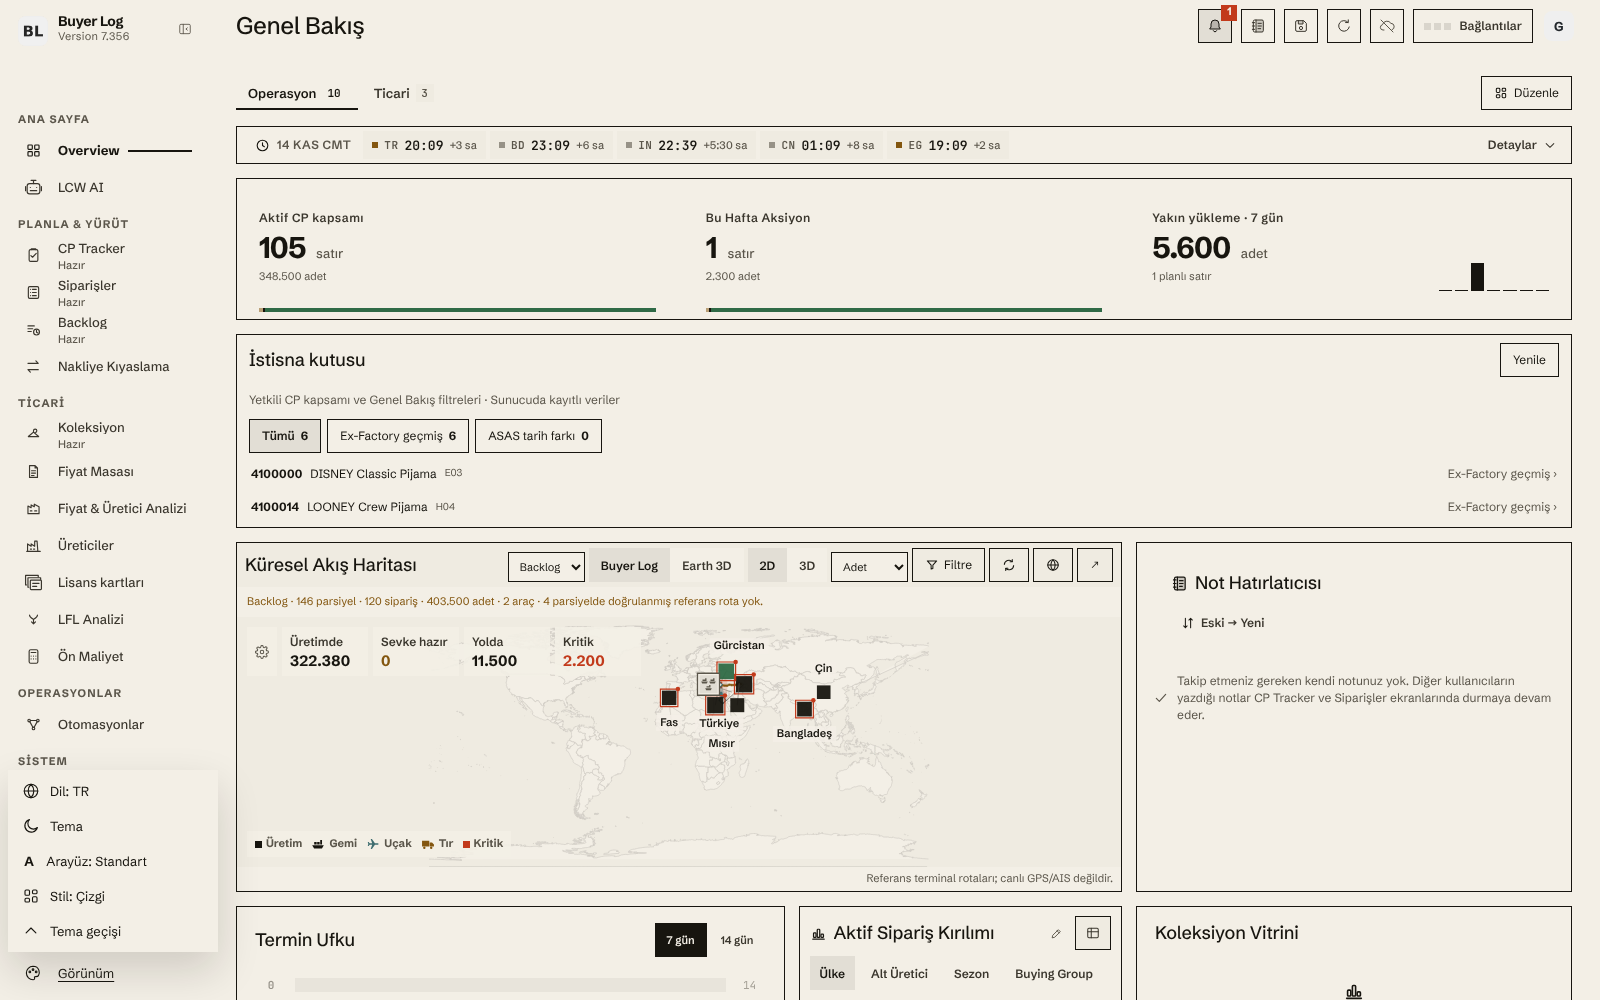
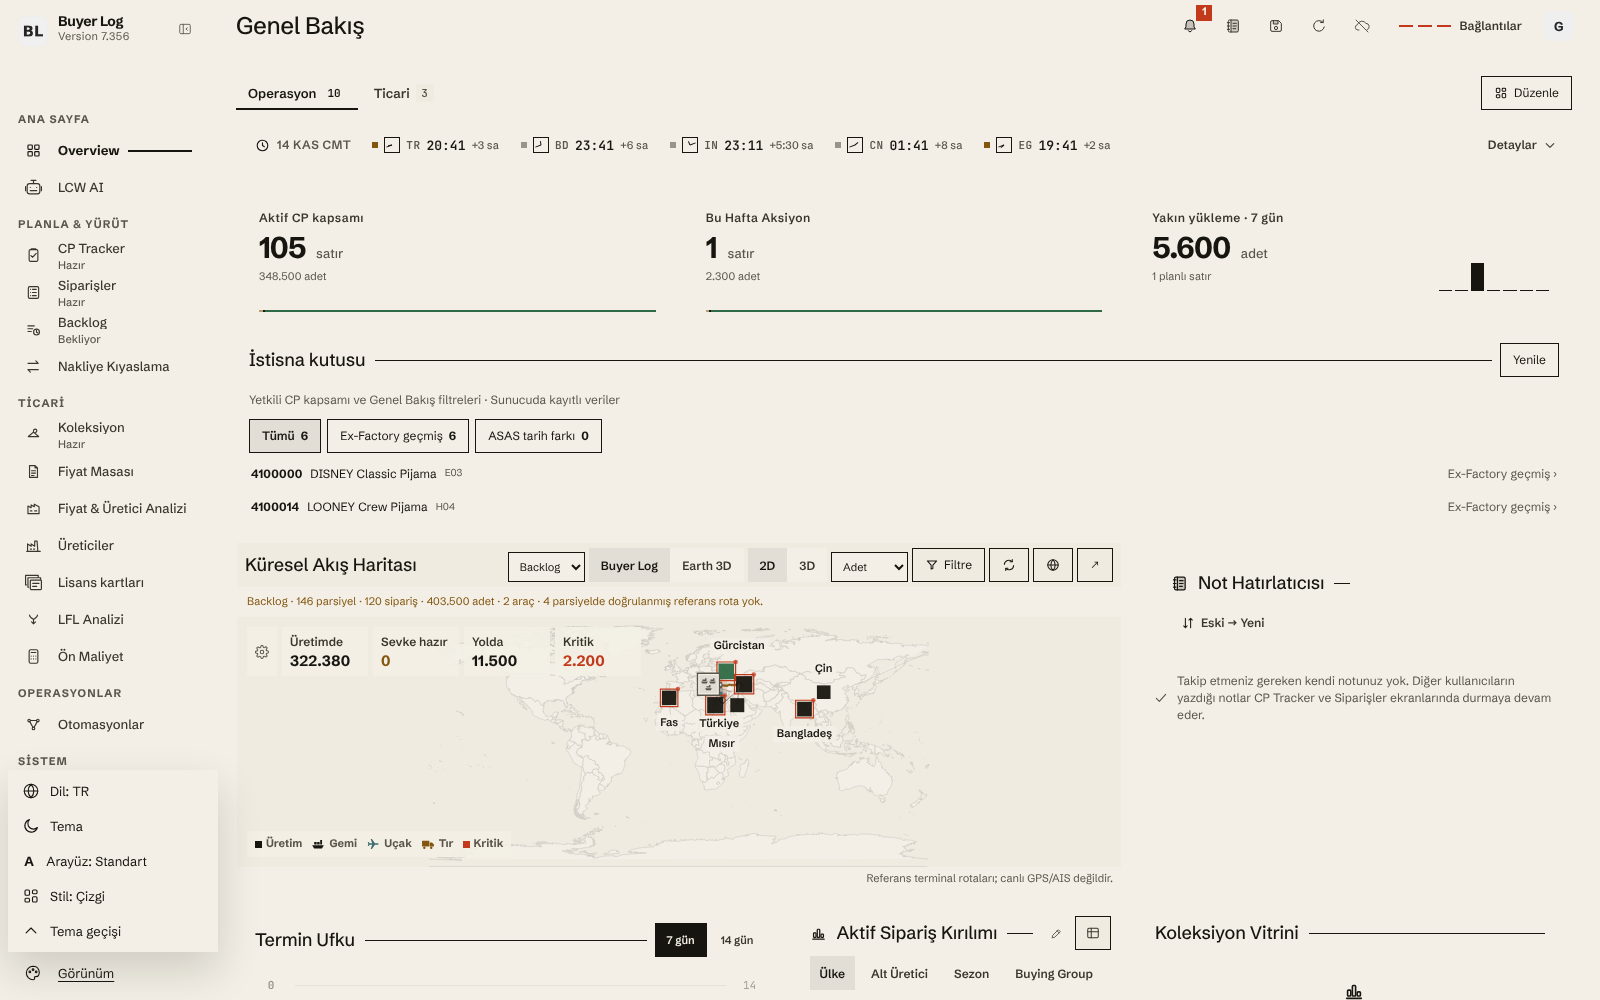
docs+notes: Çizgi stili yüzey kuralları, Rapor görünümü; menü sırası sözleşmesi
- Rapor görünümü düğmesi görünüm seçicisinin sonuna taşındı (Alanlar düğmesinin
  Tümü'nün hemen sağında olma sözleşmesi korunur).
- DESIGN_SYSTEM.md §2.1 yüzey/işaret/kabuk kuralları ve bilinçli dışarıda bırakılanlar,
  §2.2 Rapor görünümü.
- Sürüm notu: Çizgi kaydı genişletildi, Rapor görünümü kaydı ve gerçek uygulama
  ekran görüntüleri eklendi.

Claude-Session: https://claude.ai/code/session_01HKcjmjhkcMf7pfaP84BfYF

diff --git a/resources/app/public/index.html b/resources/app/public/index.html
@@ -937,9 +937,9 @@
                 <button type="button" class="tableViewPreset" data-table-view-preset="focus" data-table-key="cp" aria-pressed="false"><span data-i18n-tr="Odak" data-i18n-en="Focus">Odak</span></button>
             <button type="button" class="tableViewPreset" data-table-view-preset="extended" data-table-key="cp" aria-pressed="false"><span data-i18n-tr="Genişletilmiş" data-i18n-en="Extended">Genişletilmiş</span></button>
             <button type="button" class="tableViewPreset" data-table-view-preset="all" data-table-key="cp" aria-pressed="false"><span data-i18n-tr="Tümü" data-i18n-en="All">Tümü</span></button>
-            <button type="button" class="tableViewPreset tableReportViewBtn" data-table-report="cp" aria-haspopup="dialog" title="Görünen kayıtları rapor düzeninde aç: alanlar rol gruplarında, iki satırlı hücrelerde" data-i18n-title-tr="Görünen kayıtları rapor düzeninde aç: alanlar rol gruplarında, iki satırlı hücrelerde" data-i18n-title-en="Open the visible records in report layout: fields grouped by role in two-line cells"><svg class="ic" aria-hidden="true"><use href="#i-table"/></svg><span data-i18n-tr="Rapor görünümü" data-i18n-en="Report view">Rapor görünümü</span></button>
             <button type="button" class="tableViewPreset tableFieldsBtn" data-table-fields="cp" aria-haspopup="dialog" aria-expanded="false" title="Ana başlıkları aç / kapat (görünüm ayarını değiştirmez)" data-i18n-title-tr="Ana başlıkları aç / kapat (görünüm ayarını değiştirmez)" data-i18n-title-en="Show / hide column headings (does not change the view preset)"><svg class="ic" aria-hidden="true"><use href="#i-table"/></svg><span data-i18n-tr="Alanlar" data-i18n-en="Fields">Alanlar</span><span class="tableFieldsBadge" hidden></span></button>
             <button type="button" class="tableViewPreset tablePartialViewToggle" data-partial-view-toggle="cp" aria-pressed="false" title="Status etiketlerini ayrı satırlarda göster" data-i18n-title-tr="Status etiketlerini ayrı satırlarda göster" data-i18n-title-en="Show each status label on a separate row"><svg class="ic" aria-hidden="true"><use href="#i-table"/></svg><span data-i18n-tr="Kısmi Görünüm" data-i18n-en="Partial View">Kısmi Görünüm</span></button>
+            <button type="button" class="tableViewPreset tableReportViewBtn" data-table-report="cp" aria-haspopup="dialog" title="Görünen kayıtları rapor düzeninde aç: alanlar rol gruplarında, iki satırlı hücrelerde" data-i18n-title-tr="Görünen kayıtları rapor düzeninde aç: alanlar rol gruplarında, iki satırlı hücrelerde" data-i18n-title-en="Open the visible records in report layout: fields grouped by role in two-line cells"><svg class="ic" aria-hidden="true"><use href="#i-table"/></svg><span data-i18n-tr="Rapor görünümü" data-i18n-en="Report view">Rapor görünümü</span></button>
               </div>
             </div>
 
@@ -1027,9 +1027,9 @@
                 <button type="button" class="tableViewPreset" data-table-view-preset="focus" data-table-key="orders" aria-pressed="false"><span data-i18n-tr="Odak" data-i18n-en="Focus">Odak</span></button>
             <button type="button" class="tableViewPreset" data-table-view-preset="extended" data-table-key="orders" aria-pressed="false"><span data-i18n-tr="Genişletilmiş" data-i18n-en="Extended">Genişletilmiş</span></button>
             <button type="button" class="tableViewPreset" data-table-view-preset="all" data-table-key="orders" aria-pressed="false"><span data-i18n-tr="Tümü" data-i18n-en="All">Tümü</span></button>
-            <button type="button" class="tableViewPreset tableReportViewBtn" data-table-report="orders" aria-haspopup="dialog" title="Görünen kayıtları rapor düzeninde aç: alanlar rol gruplarında, iki satırlı hücrelerde" data-i18n-title-tr="Görünen kayıtları rapor düzeninde aç: alanlar rol gruplarında, iki satırlı hücrelerde" data-i18n-title-en="Open the visible records in report layout: fields grouped by role in two-line cells"><svg class="ic" aria-hidden="true"><use href="#i-table"/></svg><span data-i18n-tr="Rapor görünümü" data-i18n-en="Report view">Rapor görünümü</span></button>
             <button type="button" class="tableViewPreset tableFieldsBtn" data-table-fields="orders" aria-haspopup="dialog" aria-expanded="false" title="Ana başlıkları aç / kapat (görünüm ayarını değiştirmez)" data-i18n-title-tr="Ana başlıkları aç / kapat (görünüm ayarını değiştirmez)" data-i18n-title-en="Show / hide column headings (does not change the view preset)"><svg class="ic" aria-hidden="true"><use href="#i-table"/></svg><span data-i18n-tr="Alanlar" data-i18n-en="Fields">Alanlar</span><span class="tableFieldsBadge" hidden></span></button>
             <button type="button" class="tableViewPreset tablePartialViewToggle" data-partial-view-toggle="orders" aria-pressed="false" title="Status etiketlerini ayrı satırlarda göster" data-i18n-title-tr="Status etiketlerini ayrı satırlarda göster" data-i18n-title-en="Show each status label on a separate row"><svg class="ic" aria-hidden="true"><use href="#i-table"/></svg><span data-i18n-tr="Kısmi Görünüm" data-i18n-en="Partial View">Kısmi Görünüm</span></button>
+            <button type="button" class="tableViewPreset tableReportViewBtn" data-table-report="orders" aria-haspopup="dialog" title="Görünen kayıtları rapor düzeninde aç: alanlar rol gruplarında, iki satırlı hücrelerde" data-i18n-title-tr="Görünen kayıtları rapor düzeninde aç: alanlar rol gruplarında, iki satırlı hücrelerde" data-i18n-title-en="Open the visible records in report layout: fields grouped by role in two-line cells"><svg class="ic" aria-hidden="true"><use href="#i-table"/></svg><span data-i18n-tr="Rapor görünümü" data-i18n-en="Report view">Rapor görünümü</span></button>
               </div>
             </div>
 
@@ -1097,8 +1097,8 @@
                 <button type="button" class="tableViewPreset" data-table-view-preset="focus" data-table-key="koleksiyon" aria-pressed="false"><span data-i18n-tr="Odak" data-i18n-en="Focus">Odak</span></button>
           <button type="button" class="tableViewPreset" data-table-view-preset="extended" data-table-key="koleksiyon" aria-pressed="false"><span data-i18n-tr="Genişletilmiş" data-i18n-en="Extended">Genişletilmiş</span></button>
           <button type="button" class="tableViewPreset" data-table-view-preset="all" data-table-key="koleksiyon" aria-pressed="false"><span data-i18n-tr="Tümü" data-i18n-en="All">Tümü</span></button>
-            <button type="button" class="tableViewPreset tableReportViewBtn" data-table-report="koleksiyon" aria-haspopup="dialog" title="Görünen kayıtları rapor düzeninde aç: alanlar rol gruplarında, iki satırlı hücrelerde" data-i18n-title-tr="Görünen kayıtları rapor düzeninde aç: alanlar rol gruplarında, iki satırlı hücrelerde" data-i18n-title-en="Open the visible records in report layout: fields grouped by role in two-line cells"><svg class="ic" aria-hidden="true"><use href="#i-table"/></svg><span data-i18n-tr="Rapor görünümü" data-i18n-en="Report view">Rapor görünümü</span></button>
           <button type="button" class="tableViewPreset tableFieldsBtn" data-table-fields="koleksiyon" aria-haspopup="dialog" aria-expanded="false" title="Ana başlıkları aç / kapat (görünüm ayarını değiştirmez)" data-i18n-title-tr="Ana başlıkları aç / kapat (görünüm ayarını değiştirmez)" data-i18n-title-en="Show / hide column headings (does not change the view preset)"><svg class="ic" aria-hidden="true"><use href="#i-table"/></svg><span data-i18n-tr="Alanlar" data-i18n-en="Fields">Alanlar</span><span class="tableFieldsBadge" hidden></span></button>
+            <button type="button" class="tableViewPreset tableReportViewBtn" data-table-report="koleksiyon" aria-haspopup="dialog" title="Görünen kayıtları rapor düzeninde aç: alanlar rol gruplarında, iki satırlı hücrelerde" data-i18n-title-tr="Görünen kayıtları rapor düzeninde aç: alanlar rol gruplarında, iki satırlı hücrelerde" data-i18n-title-en="Open the visible records in report layout: fields grouped by role in two-line cells"><svg class="ic" aria-hidden="true"><use href="#i-table"/></svg><span data-i18n-tr="Rapor görünümü" data-i18n-en="Report view">Rapor görünümü</span></button>
               </div>
             </div>
           <button type="button" class="tableViewPreset kolAllVariantsToggle" id="kolAllVariantsToggle" aria-pressed="true" title="Opsiyonları daralt" data-i18n-title-tr="Opsiyonları daralt" data-i18n-title-en="Collapse options" aria-label="Opsiyonları daralt" data-i18n-aria-label-tr="Opsiyonları daralt" data-i18n-aria-label-en="Collapse options"><span data-bl-variant-label data-i18n-tr="Opsiyonları daralt" data-i18n-en="Collapse options">Opsiyonları daralt</span></button>

diff --git a/resources/app/tests/table-report-view.test.js b/resources/app/tests/table-report-view.test.js
@@ -12,7 +12,7 @@ const path = require('node:path');
 const PUBLIC = path.join(__dirname, '..', 'public');
 const read = name => fs.readFileSync(path.join(PUBLIC, name), 'utf8');
 
-test('each table view picker offers Report view in TR/EN after the three presets', () => {
+test('each table view picker offers Report view in TR/EN after the presets and Fields', () => {
   const html = read('index.html');
   for (const key of ['cp', 'orders', 'koleksiyon']) {
     const start = html.indexOf(`data-bl-view-picker="${key}"`);

diff --git a/DESIGN_SYSTEM.md b/DESIGN_SYSTEM.md
@@ -84,7 +84,32 @@ ilk karede uygular. Değişim tema geçişiyle aynı `BLMotionPlus.theme` yolunu
   kenar başına `--ui-motion-overlay` × 0,25 gecikme); içerik çizgiden sonra belirir,
   çizgi söner ve yüzeyin kendi sınırı kalır. İptal, sekme değişimi ve hareketin
   kapatılması çerçeveyi hemen kaldırır; reduced-motion'da çizilmez.
+- **Yüzey dili:** çalışma alanındaki kap yüzeyler (`.panel`, Overview widget'ı, Backlog
+  bölümü, `.tablewrap`) çerçevesizdir; yalnız o kapsamda `--ui-group-divider` saydam
+  yapılır, içindeki her öğede yeniden `--ui-line-ink` olur (kontroller, alanlar, iç
+  kartlar çerçeveli kalır). Pencere, çekmece ve menüler çerçeveli kalır. Overview ve
+  Backlog başlıkları "başlık — çizgi — araçlar" düzenindedir (`::after` 1px çizgi).
+- **Veri işaretleri:** oran izleri (`.ovBdTrack`, `.ovHorizonTrack`, `.cpaCoverageTrack`)
+  1px taban çizgisi + 3px dolgu; Backlog karoları zeminsiz, ince dikey ayırıcı ve aşama
+  renginde 2px üst işaret. Aşama renkleri ve hesaplar Klasik'le aynıdır.
+- **Kabuk:** üst çubuk eylemleri çerçevesiz; bağlantı durumu 14px çizgi (bağlı mürekkep,
+  kuruluyor uyarı, bağlı değil `--ui-line-mark`); seçim çubuğu mürekkep zeminli (çubuk
+  içinde token'lar `--ui-line-paper` / `--ui-line-ink-hover` ile tersine çevrilir);
+  saat çiplerinde mini kare kadran (`.ovClockChipFace`, Klasik'te gizli).
+- Bilinçli olarak yapılmayanlar: kritik satıra sol şerit (satır düzeyinde işaret yok;
+  `:has()` ve yeni gölge gerekir), araç çubuğunun metinli menülere yeniden gruplanması
+  (davranış kancası olan düğümler taşınmaz).
 - Sözleşme testi: `tests/ui-line-style.test.js`.
+
+### 2.2 Rapor görünümü
+
+CP, Siparişler ve Koleksiyon görünüm seçicisinin sonunda (Alanlar ve Kısmi görünümden sonra)
+**Rapor görünümü** (`[data-table-report]`, TR/EN) bulunur. Tablonun o anki filtre ve
+sıralama sonucunu paylaşılan detay rapor motorunda (`BLDetailDrawer`,
+`BLDetailReportLayout.project`; rol gruplu, iki satırlı hücreler) açar. Salt okunurdur:
+ön ayar, filtre, seçim ve kayıt değişmez; arama, alan filtresi, sütun seçimi ve Excel
+çekmecede kalır. Görünür kayıt yoksa uyarı verir. İki arayüz stilinde de vardır.
+Test: `tests/table-report-view.test.js`.
 
 ## 3. Tipografi ve dört boyut
 
